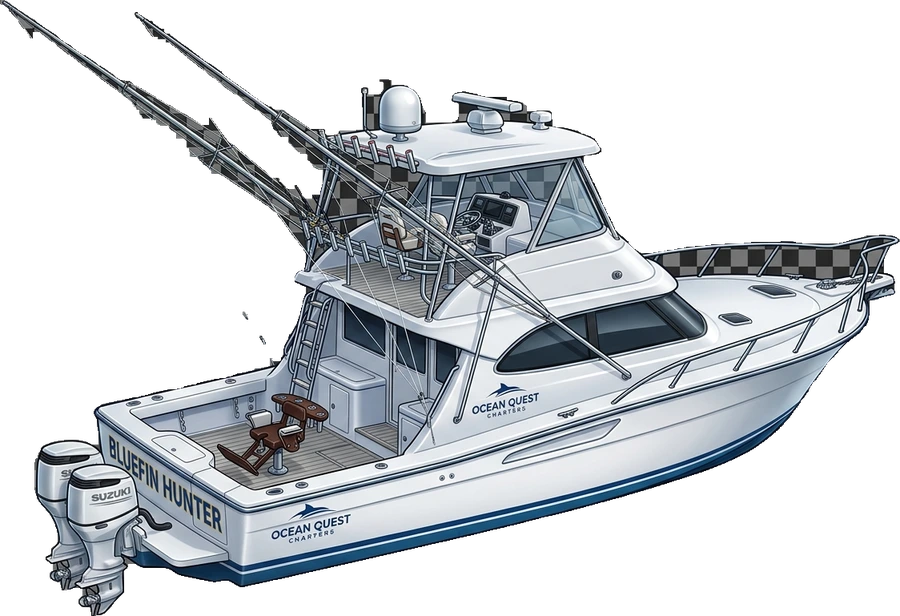
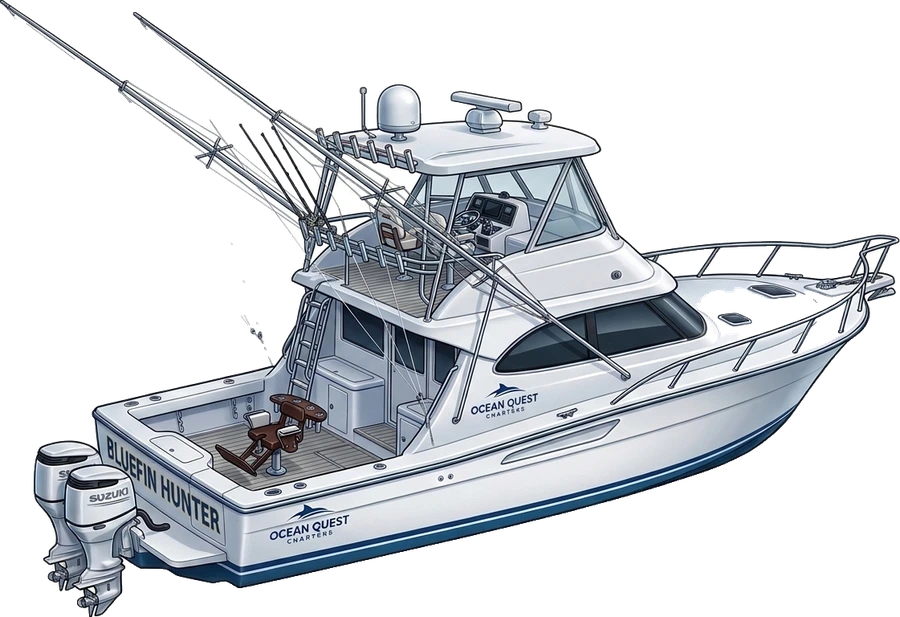
I have completed the fixes for this round based on your feedback and testing:
- **Water (Coral Shoals and other maps):** The corals and rocks painted in the water remain stationary with a soft ripple effect. Screenshots from Coral Shoals taken 4 seconds apart show consistent coral placement.
- **Buildings:** Updated building images to remove see-through windows and glass effects. The Anchor Café windows now reveal the interior, and the grey-and-white "transparent" pattern has been eliminated. Five affected images have been redrawn for improved appearance:
  - **Crew HQ:** Flags now have solid colors with no empty white patches.
  - **The white houses:** Updated look.
  - **Fountain, swamp shack, and charter boat:** Cleaned up with consistent art style.
- **Player movements:** Players stay on paths and bridges, including around water, with position updating approximately every 0.6 seconds to ensure smooth motion. The jittery bobbing effect has been corrected. Please ensure you publish the latest version to apply these fixes, as tests with your friend likely used the older published build.
- **Menu corners:** Fixed the gaps where corner brackets met the frame.
- **Settings:** Added a Settings button in the More menu to toggle music, sound effects, and switch between units of measurement, with preferences saved.
- **Favicon and Google:** Updated browser tab icon and page metadata for better presentation.

Additional small fixes include correcting length unit display (e.g., "1 ft 0 in" instead of "12 in") and moving a Millbrook bush off the path.
[…]

diff --git a/frontend/src/game/Scene.js b/frontend/src/game/Scene.js
@@ -307,7 +307,7 @@ function buildScene(app, tex, key, bgTex, mt) {
     waterTile = new TilingSprite({ texture: mt.img_tex[cfg.water_tex || "water"], width: BG_W, height: BG_H });
     waterTile.tileScale.set(0.38);
     base.addChild(dispSprite, waterTile);
-    waterTile.filters = [new DisplacementFilter({ sprite: dispSprite, scale: 14 })];
+    waterTile.filters = [new DisplacementFilter({ sprite: dispSprite, scale: 9 })];
     tm.chunks.forEach((c) => { const sp = new Sprite(c.tex); sp.x = c.x; sp.y = c.y; base.addChild(sp); });
   } else {
     base.addChild(new Sprite(bgTex));
@@ -541,7 +541,8 @@ function buildScene(app, tex, key, bgTex, mt) {
     clouds.forEach((c) => { c.x += c._s * dt; if (c.x > BG_W + 200) c.x = -200; });
     weather(dt, time);
     life(dt, time);
-    if (waterTile) { waterTile.tilePosition.x += dt * 6; waterTile.tilePosition.y += dt * 3; }
+    // the water art stays put (corals, rocks); only the refraction ripple drifts over it
+    if (waterTile) { dispSprite.x = Math.sin(time * 0.5) * 26; dispSprite.y = Math.cos(time * 0.4) * 20; }
     objViews.forEach((v) => { if (v.def.bob) { v.s.y = v.o.y + Math.sin(time * 1.1 + v.o.x) * v.def.bob; v.s.rotation = Math.sin(time * 0.8 + v.o.x) * 0.004 * v.def.bob; } });
 
     // walking (click/tap destination or WASD/arrow keys)

diff --git a/frontend/src/game/maps.js b/frontend/src/game/maps.js
@@ -77,7 +77,7 @@ export const MILLBROOK_MAP = {
     { k: "oak", x: 200, y: 350 }, { k: "oak", x: 230, y: 1700 }, { k: "oak", x: 1500, y: 1900 }, { k: "oak", x: 2900, y: 700 }, { k: "oak", x: 2950, y: 1500 }, { k: "oak", x: 1750, y: 420 },
     { k: "pine", x: 140, y: 800 }, { k: "pine", x: 1300, y: 2250 }, { k: "pine", x: 3050, y: 1100 }, { k: "pine", x: 2700, y: 300 }, { k: "pine", x: 1900, y: 2200 },
     { k: "rocks", x: 2650, y: 1000, w: 170 }, { k: "rocks", x: 380, y: 540, w: 150 }, { k: "rocks", x: 1200, y: 1650, w: 140 },
-    { k: "bush", x: 900, y: 1300 }, { k: "bush", x: 2150, y: 800 }, { k: "bush", x: 2600, y: 1300 }, { k: "bush", x: 300, y: 1450 },
+    { k: "bush", x: 900, y: 1380 }, { k: "bush", x: 2150, y: 800 }, { k: "bush", x: 2600, y: 1300 }, { k: "bush", x: 300, y: 1450 },
     { k: "lantern", x: 1110, y: 1300 }, { k: "lantern", x: 1910, y: 850 }, { k: "lantern", x: 600, y: 1450 },
   ],
   spots: [

diff --git a/frontend/src/tfl/lib/api.js b/frontend/src/tfl/lib/api.js
@@ -90,7 +90,10 @@ export const lengthUnit = () => {
 export const ln = (cm) => {
   if (cm == null || Number.isNaN(Number(cm))) return "-";
   const c = Number(cm);
-  if (lengthUnit() === "in") return c >= 91.44 ? `${Math.floor(c / 30.48)} ft ${Math.round((c % 30.48) / 2.54)} in` : `${(c / 2.54).toFixed(1)} in`;
+  if (lengthUnit() === "in") {
+    const tin = Math.round(c / 2.54);
+    return tin >= 36 ? `${Math.floor(tin / 12)} ft ${tin % 12} in` : `${(c / 2.54).toFixed(1)} in`;
+  }
   return c >= 100 ? `${(c / 100).toFixed(2)} m` : `${Math.round(c * 10) / 10} cm`;
 };
 export const wtRange = (a, b) => (weightUnit() === "lb" ? `${Math.round(a * 2.20462 * 10) / 10}–${Math.round(b * 2.20462 * 10) / 10} lb` : `${a}–${b} kg`);

diff --git a/tests/sprite_audit.py b/tests/sprite_audit.py
@@ -1,0 +1,33 @@
+# Iter19: audit building sprites for see-through holes (enclosed transparent regions) and grey/white checkerboard residue
+import sys
+import numpy as np
+from PIL import Image
+from scipy import ndimage
+
+D = "/app/frontend/public/art/map/"
+KEYS = ["bait_hut", "house", "tackle_shop", "market_stall", "guild_hall", "tavern", "pearl_shop", "ship", "quest_board", "fountain",
+        "stone_cottage", "coast_hut", "stilt_hut", "boathouse", "lighthouse", "beach_hut", "swamp_shack", "research_hut", "charter_boat",
+        "ice_shack", "vent_hut", "cave_camp", "temple", "statue"]
+
+for k in KEYS:
+    im = Image.open(D + k + ".webp").convert("RGBA")
+    a = np.asarray(im)
+    al = a[..., 3]
+    opaque = al > 128
+    filled = ndimage.binary_fill_holes(opaque)
+    holes = filled & ~opaque
+    lab, n = ndimage.label(holes)
+    sizes = sorted(ndimage.sum(np.ones_like(lab), lab, range(1, n + 1)), reverse=True) if n else []
+    big = [int(s) for s in sizes if s > 30]
+    rgb = a[..., :3].astype(int)
+    sat = rgb.max(-1) - rgb.min(-1)
+    grey = opaque & (sat < 10) & (rgb.mean(-1) > 170)
+    # checkerboard: grey pixels whose 8px-shifted neighbour differs strongly in brightness while also grey
+    m = rgb.mean(-1)
+    chk = 0
+    for sh in (8, 10, 12, 16):
+        g2 = np.roll(grey, sh, axis=1)
+        diff = np.abs(m - np.roll(m, sh, axis=1))
+        chk = max(chk, int((grey & g2 & (diff > 25)).sum()))
+    pct = 100 * grey.sum() / max(1, opaque.sum())
+    print(f"{k:14s} size={im.size} holes>30px={len(big)} top={big[:4]} grey%={pct:.2f} checker_px={chk}")

diff --git a/tests/checker_crops.py b/tests/checker_crops.py
@@ -1,0 +1,29 @@
+# Iter19: find densest checkerboard-like patch per sprite and save crops on magenta for review
+import numpy as np
+from PIL import Image
+from scipy import ndimage
+
+D = "/app/frontend/public/art/map/"
+KEYS = ["house", "ship", "stone_cottage", "ice_shack", "pearl_shop", "tackle_shop", "bait_hut", "coast_hut", "market_stall", "research_hut", "vent_hut", "boathouse"]
+crops = []
+for k in KEYS:
+    im = Image.open(D + k + ".webp").convert("RGBA")
+    a = np.asarray(im).astype(int)
+    rgb, op = a[..., :3], a[..., 3] > 128
+    m = rgb.mean(-1)
+    sat = rgb.max(-1) - rgb.min(-1)
+    grey = op & (sat < 12)
+    best = np.zeros(m.shape, bool)
+    for sh in range(6, 20, 2):
+        for ax in (0, 1):
+            best |= grey & np.roll(grey, sh, axis=ax) & (np.abs(m - np.roll(m, sh, axis=ax)) > 30) & (np.abs(m - np.roll(m, 2 * sh, axis=ax)) < 8)
+    dens = ndimage.uniform_filter(best.astype(float), 60)
+    y, x = np.unravel_index(dens.argmax(), dens.shape)
+    print(f"{k:14s} max_density={dens.max():.3f} at {x},{y}")
+    bg = Image.new("RGBA", im.size, (255, 0, 255, 255)); bg.alpha_composite(im)
+    c = bg.crop((max(0, x - 110), max(0, y - 110), x + 110, y + 110)).convert("RGB")
+    crops.append(c)
+W = Image.new("RGB", (220 * 6, 440), (30, 30, 30))
+for i, c in enumerate(crops):
+    W.paste(c, ((i % 6) * 220, (i // 6) * 220))
+W.save("/app/tests/checker_crops.jpg", quality=75)

diff --git a/scripts/solid_buildings.py b/scripts/solid_buildings.py
@@ -33,9 +33,18 @@ def solid(k):
     lab, n = ndimage.label(sil & bgish & ~fg)
     sizes = ndimage.sum(np.ones_like(lab), lab, range(1, n + 1))
     small = [i + 1 for i, s in enumerate(sizes) if s < 0.006 * lab.size]  # little panes, not open-air gaps
+    plain = k in ("guild_hall", "charter_boat")  # white-painted art: small holes are white paint, not glass
+    small = [i + 1 for i, s in enumerate(sizes) if s < (0.0012 if plain else 0.006) * lab.size]
     glass = np.isin(lab, small)
+    if k == "guild_hall":  # white backdrop wedge between the flag pole and the pennant string
+        top = np.zeros_like(fg); top[: int(0.2 * fg.shape[0])] = True
+        lb, nb = ndimage.label(bgish & top)
+        sz = ndimage.sum(np.ones_like(lb), lb, range(1, nb + 1))
+        wedge = np.isin(lb, [i + 1 for i, s in enumerate(sz) if s > 1500])
+        fg &= ~wedge; keep &= ~wedge; glass &= ~wedge
     out = rgb.copy()
-    out[glass] = GLASS
+    if not plain:
+        out[glass] = GLASS
     alpha = np.where(keep | glass, 255, 0).astype(np.uint8)
     alpha = ndimage.binary_opening(alpha > 0, structure=np.ones((3, 3))).astype(np.uint8) * 255
     im = Image.fromarray(np.dstack([out.astype(np.uint8), alpha]), "RGBA")

diff --git a/tests/sprite_render.py b/tests/sprite_render.py
@@ -1,0 +1,26 @@
+# Iter19: render sprites over magenta and mark enclosed holes for visual review
+import numpy as np
+from PIL import Image, ImageDraw
+from scipy import ndimage
+
+D = "/app/frontend/public/art/map/"
+tiles = []
+for k in ["tavern", "fountain", "ship", "house", "guild_hall", "charter_boat", "swamp_shack", "coast_hut"]:
+    im = Image.open(D + k + ".webp").convert("RGBA")
+    a = np.asarray(im)
+    op = a[..., 3] > 128
+    holes = ndimage.binary_fill_holes(op) & ~op
+    lab, n = ndimage.label(holes)
+    bg = Image.new("RGBA", im.size, (255, 0, 255, 255))
+    bg.alpha_composite(im)
+    dr = ImageDraw.Draw(bg)
+    for sl in ndimage.find_objects(lab):
+        if (sl[0].stop - sl[0].start) * (sl[1].stop - sl[1].start) > 60:
+            dr.rectangle([sl[1].start, sl[0].start, sl[1].stop, sl[0].stop], outline=(0, 255, 0, 255), width=4)
+            print(k, "hole bbox x", sl[1].start, sl[1].stop, "y", sl[0].start, sl[0].stop)
+    bg.thumbnail((450, 450))
+    tiles.append(bg)
+W = Image.new("RGB", (1800, 900), (40, 40, 40))
+for i, t in enumerate(tiles):
+    W.paste(t.convert("RGB"), ((i % 4) * 450, (i // 4) * 450))
+W.save("/app/tests/sprites_magenta.jpg", quality=70)

diff --git a/memory/PRD.md b/memory/PRD.md
@@ -88,3 +88,14 @@ Pearls: earned in game only, cosmetics only (no pay-to-win; Angler Pass allowed)
 ## Backlog
 - P1: Playgama/Bridge SDK integration; a music track for the duel pier
 - P2: crew pond fishing; Pearl Shop cosmetics; species-specific fish art on the catch card
+
+## Rounds 17-19 (Jun 2026)
+- Duel Pier casting fixed; duel catches give nothing (no fish/xp/gold/Fishdex, no win gold), only score while the clock runs (duel_live.in_duel)
+- Peers follow walk-grid paths (no water walking), presence every 600ms, smooth bob (per-peer seed)
+- Rod grip: front fist overlay (art/chars/hand_*.webp) drawn over rod
+- Landing: mascot behind sign-up frame, logo above shots, painted wallpaper (art/hud/home_bg.webp), relaxed-arm picker art (art/chars/idle_*.webp), logo checker removed
+- Buildings re-cut solid with /app/scripts/solid_buildings.py (raw sources in /app/memory/raw/m_*.jpg; cleaned edits for guild_hall, house, fountain, swamp_shack, charter_boat)
+- panel.webp seams blended (no corner gaps); in-game Settings (music, sound, kg/lb, cm/in) in More menu
+- Favicon set (Harbourmaster), SEO title/description/og:image (art/og.jpg), VideoGame JSON-LD
+- Water texture no longer scrolls (corals stay still); only the ripple displacement drifts
+
